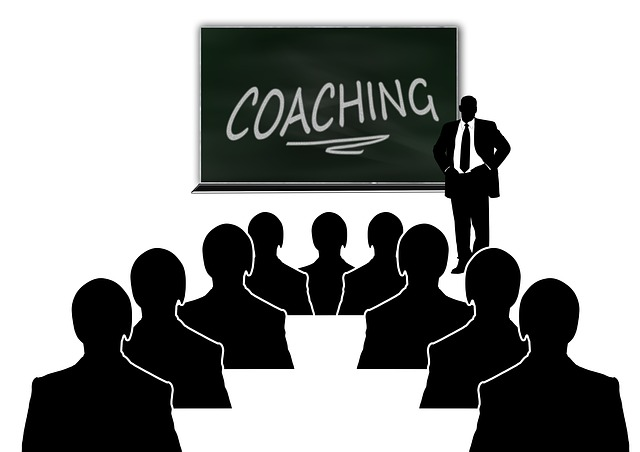
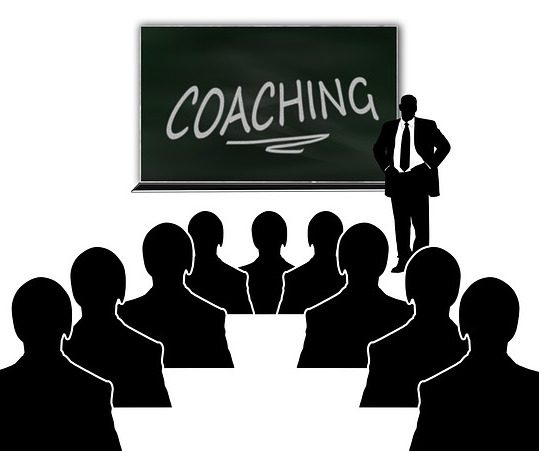
new pics and edit modals

diff --git a/resources/views/index.blade.php b/resources/views/index.blade.php
@@ -113,7 +113,7 @@
     <div class="container">
         <h2>{{{ $data["breakoutHeader"] }}}</h2>
         <hr class="sep">
-        <h4>{{{ $data["breakoutText"] }}}</h4>
+        <h4 style="line-height:2;">{{{ $data["breakoutText"] }}}</h4>
     </div>
 </section>
 
@@ -161,12 +161,12 @@
             <div class="modal-body">
                 <button type="button" class="close" data-dismiss="modal" aria-label="Close"><span aria-hidden="true">&times;</span></button>
                 <div class="modal-left">
-                  <img class="img-responsive center-block team-photo" src="http://riverene.com/img/breakthrough.png" alt="1">
+                  <img class="img-responsive center-block team-photo" src="http://riverene.com/img/breakthrough.jpg" alt="1" style="width:350px; height:600px">
                 </div>
                 <div class="modal-right">
                     <div class="modal-title" id="ModalLabel1">Achieving Breakthroughs </div>
-                    <h2>Based upon the research in Judah’s book, <i>The Breakthrough Myth</i>, this program helps your leaders and teams have big, game changing breakthroughs.</h2>
-                    <div class="modal-text" id="ModalText1">We leverage the best tools from the biggest innovators to help your leaders and teams have high impact breakthroughs. Rather than talk about geniuses and their special processes this program offers specific, concrete tools for individuals and teams to use immediately to increase their chances of breaking through whatever may have been blocking them. By assessing the members of your team we customize the tools to be most effective for your people. </div>
+                    <h2>Based upon the research in Judah’s book, <i>The Commander and the Chorus</i>, this program helps your leaders and teams have big, game changing breakthroughs.</h2>
+                    <div class="modal-text" id="ModalText1">With access to some of the greatest creative minds in business today we have gathered the best, most effective tools from the biggest innovators to help your leaders and teams achieve high impact breakthroughs. First we assess you or the members of your team to see what personal and cognitive dynamics are acting as obstacles. Guided by this knowledge we customize a program of concrete tools for individuals and/or teams to use immediately. We give you a breakthrough practice you can continue to use and build upon for years to come giving you access to things we left out of the book.</div>
                 </div>
             </div>
         </div>
@@ -179,13 +179,13 @@
             <div class="modal-body">
                 <button type="button" class="close" data-dismiss="modal" aria-label="Close"><span aria-hidden="true">&times;</span></button>
                 <div class="modal-left">
-                  <img class="img-responsive center-block team-photo" src="http://riverene.com/img/leadership.jpg" alt="2">
+                  <img class="img-responsive center-block team-photo" src="http://riverene.com/img/leadership.jpg" alt="2" style="width:350px; height:600px">
                 </div>
                 <div class="modal-right">
                     <div class="modal-title" id="ModalLabel2">Adaptive Leadership Training </div>
-                    <h2>The most important leadership commodity in any organization is trust. It takes years to build and a moment to break.</h2>
-                    <div class="modal-text" id="ModalText2">We are experts at rapidly establishing trust with our clients and helping them establish trust with their peers. Our trainings, designed using the latest findings in neuroscience, are 90 minutes, short enough to be digestible for your staff and integrate into their workday and be immediately applicable to their daily job. Our process is simple, the first 15 minutes we set the frame for the new knowledge. The next 45 minutes we teach one concrete tool and practice using that tool to make the knowledge immediately impactful. The final 30 minutes is devoted to the group identifying the challenges inherent in their system and using the tool to collaboratively design solutions to preempt them.
-                    </div>
+                    <h2>If you want to create lasting change give people a tool.</h2>
+                    <h3 style="padding-left:30px;">Peter Senge</h3>
+                    <div class="modal-text" id="ModalText2">Teaching your leaders how to adapt to their changing environment is not easy. They don’t need theories of change. They need concrete tools they can use right now. Our trainings, designed using the latest findings in neuroscience, are 90 minutes. This is the ideal length of time for your leaders to really learn a new skill without wasting time. It’s short enough to fit into their workday without being too disruptive. And we give them tools that are immediately applicable to their daily job. Our process is simple, the first 15 minutes we set the frame for the new knowledge. The next 45 minutes we teach one concrete tool and practice using that tool to make the knowledge immediately impactful. The final 30 minutes is devoted to the group identifying how the culture will push back on the tool and help them collaboratively design solutions to help them implement the tool.</div>
                 </div>
             </div>
         </div>
@@ -198,12 +198,12 @@
             <div class="modal-body">
                 <button type="button" class="close" data-dismiss="modal" aria-label="Close"><span aria-hidden="true">&times;</span></button>
                 <div class="modal-left">
-                  <img class="img-responsive center-block team-photo" src="http://riverene.com/img/coaching.png" alt="3">
+                  <img class="img-responsive center-block team-photo" src="http://riverene.com/img/coaching.jpg" alt="3" style="width:350px; height:550px">
                 </div>
                 <div class="modal-right">
                     <div class="modal-title" id="ModalLabel3">Coaching</div>
                     <h2>When you coach a leader you are by extension coaching their team.</h2>
-                    <div class="modal-text" id="ModalText3">So, we have found in-the-moment data collection on leader/team dynamics to be an incomparably rich foundation for effective coaching of leaders and their teams. With this high-impact approach, we observe leaders and their teams interacting in their regularly scheduled weekly business meetings, we give real-time feedback to the team and follow-up with 1:1 developmental coaching sessions with the leader. Through a 3 to 12 month engagement that includes targeted leader coaching, as well as spot coaching for team members, plus the design and facilitation of quarterly off-sites, expect dramatic—even exponential—improvement in the effectiveness and satisfaction of leaders, their teams, and the whole organization.</div>
+                    <div class="modal-text" id="ModalText3">Real-time data collection on leader/team dynamics is our foundation for effective coaching of leaders and their teams. With this high-impact approach, we observe the leader-team dynamics in their meetings; provide in-the-moment feedback to the team, then follow-up with 1:1 developmental coaching sessions with the leader. We suggest between 3, 6 and 12-month engagements that include targeted leader coaching, spot coaching for team members, and the design and facilitation of quarterly off-sites. We experience dramatic—even exponential—improvement in the effectiveness and satisfaction of leaders, their teams, and the whole organization.</div>
                 </div>
             </div>
         </div>
@@ -216,12 +216,12 @@
             <div class="modal-body">
                 <button type="button" class="close" data-dismiss="modal" aria-label="Close"><span aria-hidden="true">&times;</span></button>
                 <div class="modal-left">
-                  <img class="img-responsive center-block team-photo" src="http://riverene.com/img/strategy.png" alt="4">
+                  <img class="img-responsive center-block team-photo" src="http://riverene.com/img/strategy.jpg" alt="4" style="width:350px; height:600px">
                 </div>
                 <div class="modal-right">
                     <div class="modal-title" id="ModalLabel4">Diagnosing Your Organization </div>
-                    <h2>If you want to get to where you’re going, you first need to know where you really are.</h2>
-                    <div class="modal-text" id="ModalText4">We skillfully and productively surface the unspoken conflicts and misalignments in and across teams that are getting in the company’s way. We discover what the concrete, day-to-day blockers are to the organization’s mission and goals. Then we drill down to the underlying patterns to find the essential issues and present these to the executive team. Based upon this information we advise executive teams on how to build and maintain the company culture that will best move the organization forward.</div>
+                    <h2>If you want to get to where you’re going, first you need to know where you really are.</h2>
+                    <div class="modal-text" id="ModalText4">We skillfully and productively surface the unspoken conflicts and misalignments in and across teams that are getting in the company’s way. We discover what the concrete, day-to-day blockers are to the organization’s mission and goals. Then we drill down to the underlying patterns to discover the fundamental miscommunications and misunderstandings flowing from the executive level down through the rest of the organization. We present these essential issues to the executive team. Based upon this information we advise executive teams on how to create an easy organizational narrative about the mission and goals that will clear up misunderstandings. We then advise on ways to remove the concrete blockers to help the organization function with less internal resistance and move forward faster.</div>
                 </div>
             </div>
         </div>
